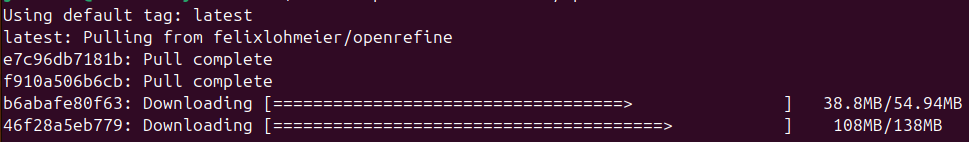
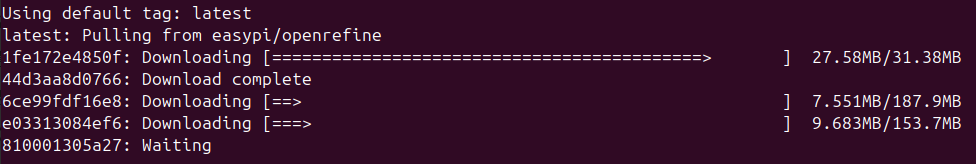
Fix Dockerfile comments and update images
+ Move Dockerfile comments to start of line
+ Update nano screenshot with updated Dockerfile comments
+ Add br tags before OpenRefine screenshots to attempt better formatting
+ Replace felixlohmeier OpenRefine image with easypi OpenRefine image
+ Update docker pull progress screenshot with new image
+ Replace new terminal window with latest VM image screenshot

diff --git a/episodes/containers-part1.md b/episodes/containers-part1.md
@@ -190,7 +190,7 @@ Once the command line terminal is open, type the command to retrieve the
 OpenRefine image:
 
 ```
-docker pull felixlohmeier/openrefine
+docker pull easypi/openrefine
 ```
 
 After typing in the command, press "Enter" and Docker will download the image 
@@ -216,7 +216,7 @@ command `sudo` right before each call to `docker`. So, if you received the
 "permission denied" error, update the command to 
 
 ```
-sudo docker pull felixlohmeier/openrefine
+sudo docker pull easypi/openrefine
 ```
 
 And press "Enter" to run the command. You will likely be asked for the user 
@@ -262,7 +262,7 @@ we can interact with the container by setting the ports (we will see later how
 we use this information). In the command-line interface, run:
 
 ```
-docker run -p 3333:3333 felixlohmeier/openrefine
+docker run -p 3333:3333 easypi/openrefine
 ```
 
 Breaking down this command, there are three key parts:
@@ -270,7 +270,7 @@ Breaking down this command, there are three key parts:
 1. `docker run`: tells docker to start running a new container
 2. `-p 3333:3333`: tells docker we will use the local port 3333:3333 to 
 communicate with the running container
-3. `felixlohmeier/openrefine`: is the name of the image from which to build the 
+3. `easypi/openrefine`: is the name of the image from which to build the 
 container
 
 There is a good chance you will see a variety of messages, including some 
@@ -321,8 +321,8 @@ run the `docker ps` command again. The output should look something like:
 
 ```
 $ docker ps
-CONTAINER ID   IMAGE                      COMMAND                  CREATED         STATUS         PORTS                                       NAMES
-e1e174015296   felixlohmeier/openrefine   "/app/refine -i 0.0.…"   9 seconds ago   Up 8 seconds   0.0.0.0:3333->3333/tcp, :::3333->3333/tcp   epic_nobel
+CONTAINER ID   IMAGE                COMMAND                  CREATED         STATUS         PORTS                                       NAMES
+e1e174015296   easypi/openrefine    "/app/refine -i 0.0.…"   9 seconds ago   Up 8 seconds   0.0.0.0:3333->3333/tcp, :::3333->3333/tcp   epic_nobel
 $
 ```
 
@@ -383,12 +383,12 @@ Next we will clean up one part of the data.
 
 1. Click the dropdown triangle on the Publisher column.
 2. Select the Facet > menu item.
-3. Select Text facet in the submenu.
+3. Select Text facet in the submenu. <br />
 ![The facet menu in OpenRefine](fig/openrefine-facet.png){alt='OpenRefine menus showing facet options'}
 4. Note that in the values there are two that look almost identical - why do 
 these two values appear separately rather than as a single value?
 5. On the publisher column use the dropdown menu to select Edit cells > Common 
-transforms > Collapse consecutive whitespace.
+transforms > Collapse consecutive whitespace. <br />
 ![The cell edit menu in OpenRefine](fig/openrefine-transform.png){alt='OpenRefine menus showing cell transformation options'}
 6. Look at the publisher facet now - has it changed? (if it hasn’t changed try 
 clicking the Refresh option to make sure it updates).
@@ -419,8 +419,8 @@ identical to what we saw before, but with the time information updated in the
 
 ```
 $ docker ps
-CONTAINER ID   IMAGE                      COMMAND                  CREATED         STATUS         PORTS                                       NAMES
-e1e174015296   felixlohmeier/openrefine   "/app/refine -i 0.0.…"   9 minutes ago   Up 9 minutes   0.0.0.0:3333->3333/tcp, :::3333->3333/tcp   epic_nobel
+CONTAINER ID   IMAGE                COMMAND                  CREATED         STATUS         PORTS                                       NAMES
+e1e174015296   easypi/openrefine    "/app/refine -i 0.0.…"   9 minutes ago   Up 9 minutes   0.0.0.0:3333->3333/tcp, :::3333->3333/tcp   epic_nobel
 $
 ```
 
@@ -482,8 +482,8 @@ $
 on the machine. This includes the container that we stopped earlier.
 ```
 $ docker ps -a
-CONTAINER ID   IMAGE                      COMMAND                  CREATED         STATUS                       PORTS     NAMES
-e1e174015296   felixlohmeier/openrefine   "/app/refine -i 0.0.…"   20 minutes ago      Exited (143) 2 minutes ago                determined_torvalds
+CONTAINER ID   IMAGE                COMMAND                  CREATED         STATUS                       PORTS     NAMES
+e1e174015296   easypi/openrefine    "/app/refine -i 0.0.…"   20 minutes ago      Exited (143) 2 minutes ago                determined_torvalds
 $
 ```
 Note the date information (in the `CREATED` and `STATUS` fields) and the 
@@ -498,18 +498,18 @@ container name (the `NAMES` field) will likely be different on your machine.
 
 Rearrange the following commands to (in the following order) (1) start the 
 OpenRefine container, (2) find the container image ID of the running OpenRefine 
-container, and (3) terminal the OpenRefine container.
+container, and (3) stop the OpenRefine container.
 
 ```
 docker stop <container ID>
-docker run -p 3333:3333 felixlohmeier/openrefine
+docker run -p 3333:3333 easypi/openrefine
 docker ps
 ```
 
 :::::::::::::::::::::::: solution 
 
 ```
-docker run -p 3333:3333 felixlohmeier/openrefine
+docker run -p 3333:3333 easypi/openrefine
 docker ps
 docker stop <container ID>
 ```

diff --git a/episodes/containers-part2.md b/episodes/containers-part2.md
@@ -91,13 +91,18 @@ This command will do two things: first, it creates an empty text file called
 add those two lines, as well as a comment for each line. Comments are useful 
 for anyone who will need to look at the Dockerfile in the future (this usually 
 means you!). The comment character, `#`, tells the computer to ignore any text 
-that comes to the right of the `#`, as it is for human eyes only. These 
+that comes to the right of the `#`, as it is for human eyes only. Note for 
+Dockerfiles, the `#` must come at the *start of the line*; otherwise the pound 
+sign (and anything to the right of it) will be interpeted as code to run. These 
 comments are not necessary to build the image, but they are a *very* good 
 practice to get into. In the nano text editor, add the following:
 
 ```
-FROM python:3.9  # use the python base image, version 3.9
-CMD ["python", "--version"]  # on container start, print the version of python
+# use the python base image, version 3.9
+FROM python:3.9
+
+# on container start, print the version of python
+CMD ["python", "--version"]
 ```
 
 Which should look something like this in your terminal:
@@ -176,7 +181,7 @@ Which should produce the following output:
 ```
 REPOSITORY                 TAG       IMAGE ID       CREATED         SIZE
 vboxuser/python-test       latest    48e8a6dc6b14   2 minutes ago   999MB
-felixlohmeier/openrefine   latest    3ee6bb3d8cfa   3 years ago     243MB
+easypi/openrefine          latest    3ee6bb3d8cfa   3 years ago     243MB
 ```
 
 Note we see the image for OpenRefine that we downloaded in the previous 
@@ -234,7 +239,7 @@ You may notice something missing from the last time we ran `docker run`. Recall
 that to start the OpenRefine container, we ran:
 
 ```
-docker run -p 3333:3333 felixlohmeier/openrefine
+docker run -p 3333:3333 easypi/openrefine
 ```
 
 This time, we omitted the information about ports (the `-p 3333:3333` part) 
@@ -269,7 +274,7 @@ And the two containers we ran so far will be displayed in the output table:
 ```
 CONTAINER ID   IMAGE                      COMMAND                  CREATED              STATUS                          PORTS     NAMES
 fa10d154754d   jcoliver/python-test       "python --version"       About a minute ago   Exited (0) About a minute ago             charming_meitner
-3ece25d51a80   felixlohmeier/openrefine   "/app/refine -i 0.0.…"   5 minutes ago        Exited (129) 5 minutes ago                kind_ardinghelli
+3ece25d51a80   easypi/openrefine          "/app/refine -i 0.0.…"   5 minutes ago        Exited (129) 5 minutes ago                kind_ardinghelli
 ```
 
 ::::::::::::::::::::::::::::::::::::: challenge 
@@ -369,8 +374,13 @@ we will use the `COPY` command in the Dockerfile.
 On the line right below the `FROM` command, add the copy instructions:
 
 ```
+# use the python base image, version 3.12
 FROM python:3.12
-COPY intro.py .    # <---- This is the new line that copies the script
+
+# Copy the intro.py script onto the image
+COPY intro.py .
+
+# on container start, print the version of python
 CMD ["python", "--version"]
 ```
 
@@ -386,9 +396,14 @@ python, it will run the script we copied to the image. Update the `CMD` line so
 instead of "--version", it has the name of the script in quotation marks:
 
 ```
+# use the python base image, version 3.12
 FROM python:3.12
+
+# Copy the intro.py script onto the image
 COPY intro.py .
-CMD ["python", "intro.py"] # <---- Here we replace "--version" with "intro.py"
+
+# on container start, use python to run the python script "intro.py"
+CMD ["python", "intro.py"]
 ```
 
 Finally, save and exit the nano editor with Ctrl-O and Ctrl-X, respectively.
@@ -426,7 +441,7 @@ image, and run the container to ensure your changes were updated.
 
 - Open the Dockerfile in a text editor (we have been using nano, so you can run, 
 in the command line terminal, `nano Dockerfile` to open the file for editing).
-- Change the `FROM` line to read `FROM python:3.12`
+- Change the `FROM` line to read `FROM python:3.13`
 - Save the file (Ctrl-O in nano) and exit the text editor (Ctrl-X).
 
 #### Update the Python script with a new message
